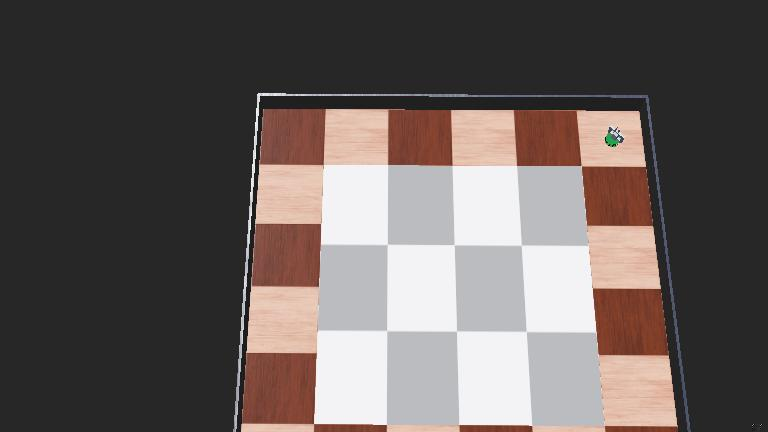
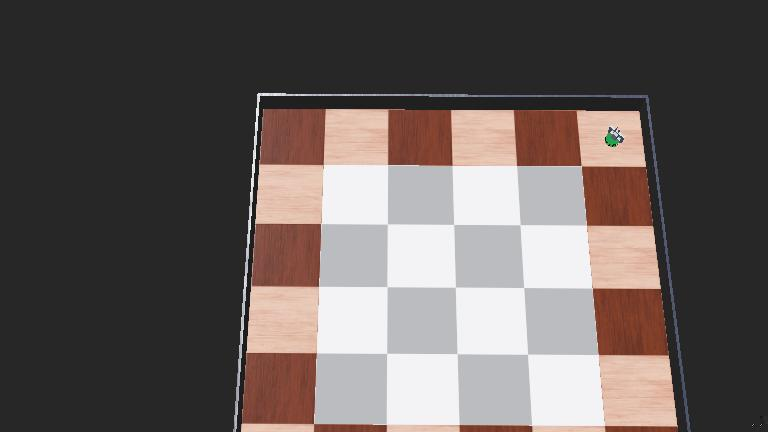
update world

Changed region(s): [[0.4062, 0.8125, 0.8125, 0.9931], [0.4062, 0.662, 0.7812, 0.7824], [0.4062, 0.5116, 0.7812, 0.5718]]

diff --git a/Sprint #3 - Robots/2025-11-14 khepera1/controllers/my_controller_player1/my_controller_player1.py b/Sprint #3 - Robots/2025-11-14 khepera1/controllers/my_controller_player1/my_controller_player1.py
@@ -124,8 +124,6 @@ receiver = robot.getDevice('receiver')
 receiver.setChannel(player)
 receiver.enable(timestep)
 
-
-
 emitter = robot.getDevice('emitter')
 emitter.setChannel(player+10)  # Robot 1 uses channel 1 and 11
 

diff --git a/Sprint #3 - Robots/2025-11-14 khepera1/game/my_game.py b/Sprint #3 - Robots/2025-11-14 khepera1/game/my_game.py
@@ -7,8 +7,9 @@ def initial_state():
 
     state[0]=1
     state[1]=0
-    state[2]=1
+    state[2]=0
     state[3]=1
+    state[5]=1
 
     state[12]=2
     state[13]=2

diff --git a/Sprint #3 - Robots/2025-11-14 khepera1/controllers/my_controller_player1/logic_robot_game.py b/Sprint #3 - Robots/2025-11-14 khepera1/controllers/my_controller_player1/logic_robot_game.py
@@ -1,0 +1,8 @@
+player=1
+im=take_picture()
+
+state=read_state(im)
+
+move=get_move(state,player)
+
+make_move(move)
